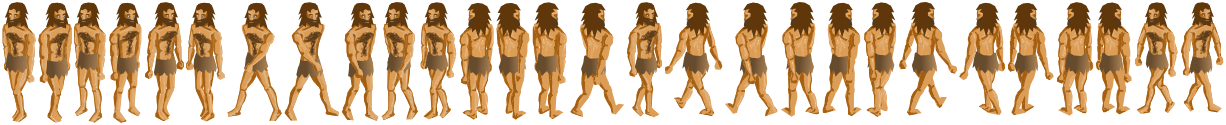
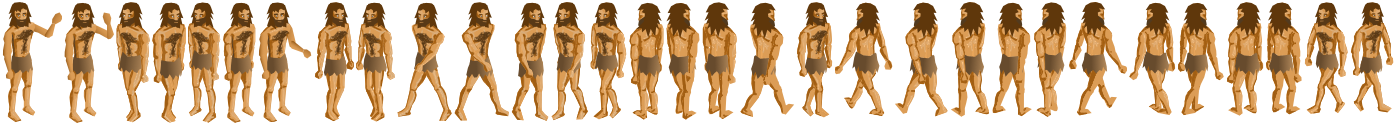
+ waving animation

diff --git a/src/pawn.js b/src/pawn.js
@@ -22,10 +22,14 @@ Dawning.Pawn = class Pawn {
     this.man.animations.add('standing_left', ['standing_left@2x.png'], 0, false, false);
     this.man.animations.add('standing_right', ['standing_right@2x.png'], 0, false, false);
     this.man.animations.add('standing_up', ['standing_up@2x.png'], 0, false, false);
-    this.man.animations.add('walk_down', [4,5,6,7,8,9,5], 10, true, true);
-    this.man.animations.add('walk_left', [10,11,12,13,14,15,11], 10, true, true);
-    this.man.animations.add('walk_right', [16,17,18,19,20,21,17], 10, true, true);
-    this.man.animations.add('walk_up', [22,23,24,25,26,27,23], 10, true, true);
+    this.man.animations.add('walk_down', [4,5,6,7,8,9,5], 8, true, true);
+    this.man.animations.add('walk_left', [10,11,12,13,14,15,11], 8, true, true);
+    this.man.animations.add('walk_right', [16,17,18,19,20,21,17], 8, true, true);
+    this.man.animations.add('walk_up', [22,23,24,25,26,27,23], 8, true, true);
+    this.man.animations.add('waving', ['waving_1@2x.png','waving_2@2x.png','waving_3@2x.png','waving_2@2x.png','waving_3@2x.png','waving_2@2x.png','waving_3@2x.png','waving_2@2x.png','waving_1@2x.png','standing_right@2x.png'], 3, false, false);
+
+    this.wave();
+    //this.game.time.events.add(2000, this.wave, this);
 
     this.game.physics.isoArcade.enable(this.man);
     this.man.enableBody = true;
@@ -34,6 +38,10 @@ Dawning.Pawn = class Pawn {
     this.game.camera.follow(this.man);
     this.visibleArea(dataX, dataY);
     return this;
+  }
+
+  wave(){
+    this.man.animations.play('waving');
   }
 
   update(){

diff --git a/src/iso_map.js b/src/iso_map.js
@@ -148,6 +148,7 @@ Dawning.IsoMap = class IsoMap {
     this.collisionDetection();
     this.inputHandler.moveWithCursor(this.man);
     this.topologicalSort();
+    this.man.update();
   }
 
   positionChanged(){
